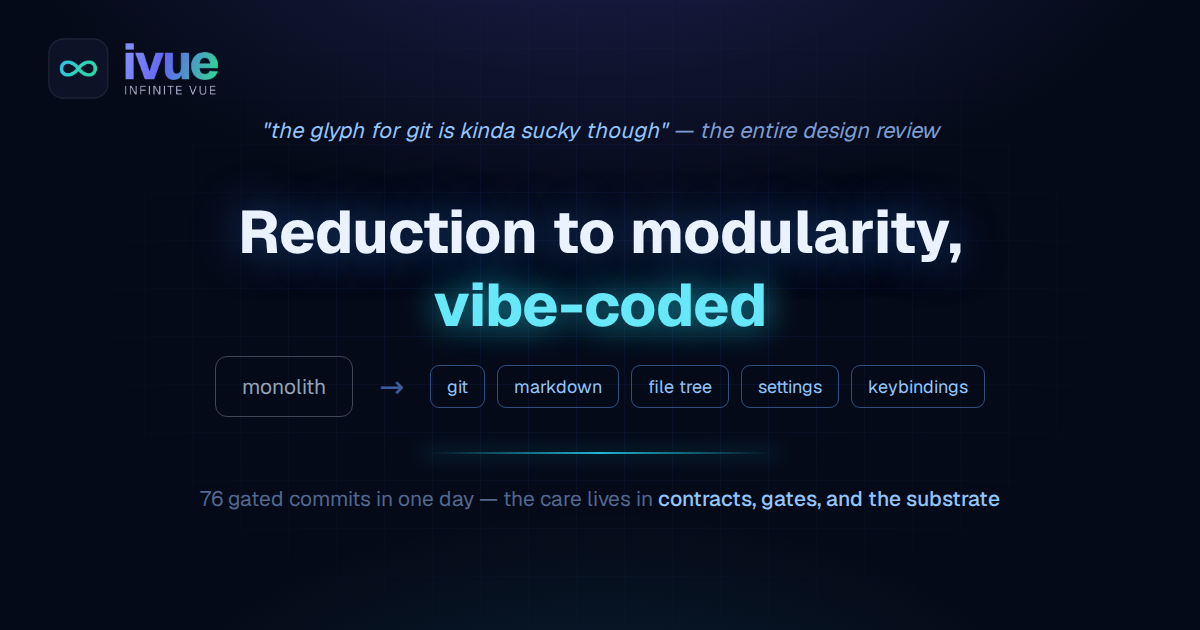
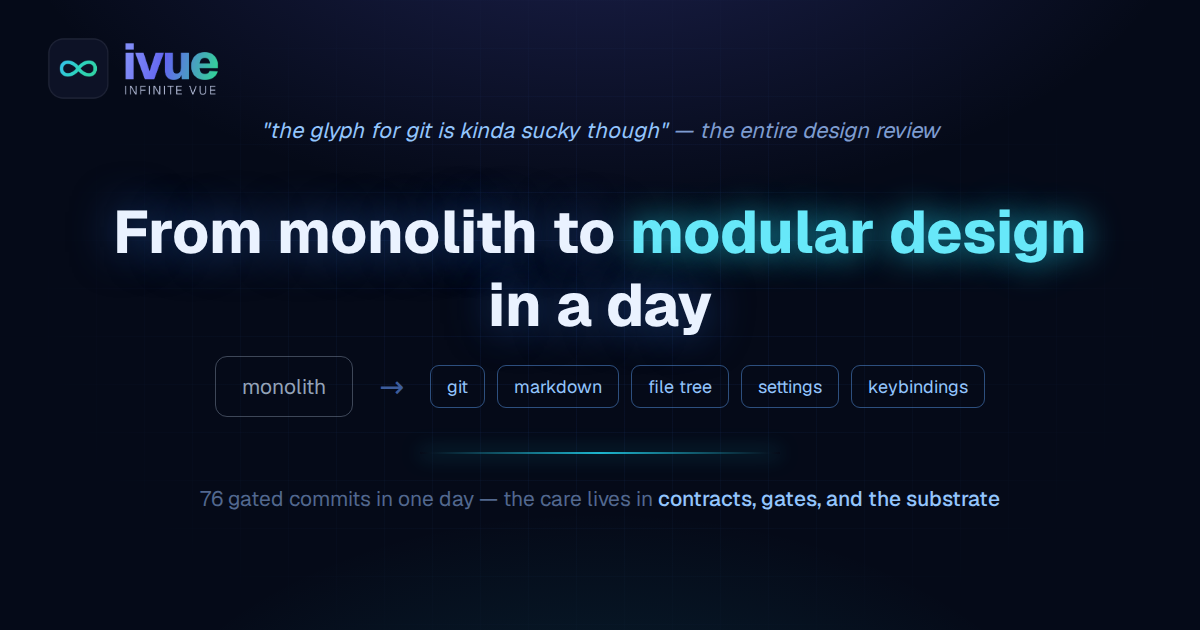
blog: retitled — From monolith to modular design in a day

Changed region(s): [[0.0925, 0.3317, 0.925, 0.5429]]

diff --git a/.claude/skills/blog-banner/banners/reduction-to-modularity.html b/.claude/skills/blog-banner/banners/reduction-to-modularity.html
@@ -84,7 +84,7 @@
   </div>
 
   <div class="quote"><span class="said">"the glyph for git is kinda sucky though"</span> — the entire design review</div>
-  <div class="title">Reduction to modularity,<br/><span class="glow">vibe-coded</span></div>
+  <div class="title">From monolith to <span class="glow">modular design</span><br/>in a day</div>
   <div class="split">
     <div class="mono-block">monolith</div>
     <div class="arrow">→</div>

diff --git a/docs_v2/blog/reduction-to-modularity.md b/docs_v2/blog/reduction-to-modularity.md
@@ -1,14 +1,14 @@
 ---
-title: 'Reduction to modularity, vibe-coded'
+title: 'From monolith to modular design in a day'
 description: In one day, AI agents extracted a monolith's git, markdown, file tree, settings, and keybindings into plugins behind enforced boundaries — directed by one human talking casually. The care didn't come from the model. It was moved into the structure.
 date: 2026-07
 ---
 
-# Reduction to modularity, vibe-coded
+# From monolith to modular design in a day
 
 <BlogPostDate />
 
-![Reduction to modularity, vibe-coded](/blog/reduction-to-modularity.png)
+![From monolith to modular design in a day](/blog/reduction-to-modularity.png)
 
 Modularizing a working application is the kind of refactor that is
 usually done meticulously, by senior humans, over a quarter: draw the
